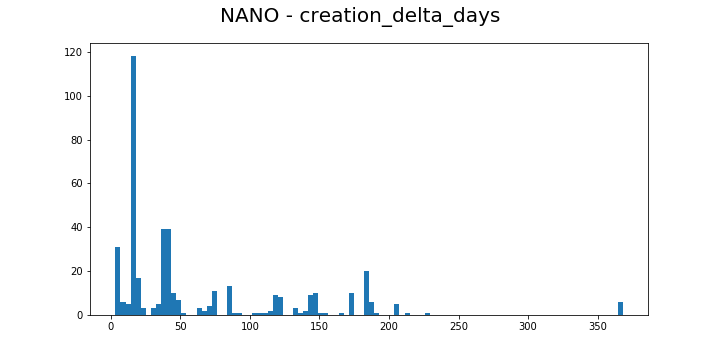
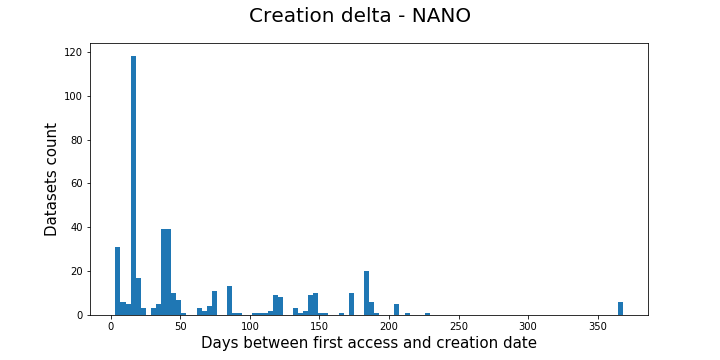
polishing figures on section DeltaT

Changed region(s): [[0.275, 0.9167, 0.7639, 0.9778], [0.3056, 0.0, 0.7028, 0.0611], [0.0611, 0.3361, 0.0917, 0.6722]]

diff --git a/models/doc/deltaT.md b/models/doc/deltaT.md
@@ -2,10 +2,116 @@
 
 **deltaT** is a range in time after the creation of a dataset in which we
 assume the dataset will stay in disk regardless whether it has been accessed or not
-and/or the deletion policy in place.It will be calculated as the typical time
+and/or the deletion policy in place. It will be calculated as the typical time
 between the creation(d_creation_date) or modification(d_last_modification) date
 of a dataset and its first access. Following, the procedure to define **deltaT**
 is described.
 
- 
 
+
+**dataset_dates_df**. This DataFrame contains three fields:
+'d_dataset_id', 'd_creation_date' and 'd_last_modification_date', it
+holds information about the creation and last modification dates of each
+of the datasets according to DBS. The code to produce this DataFrame is here:
+https://github.com/ddavila0/analytics_tools/blob/master/models/spark/get_dataset_dates.py
+    
+
+
+## The algorithm to calculate **deltaT**
+
+First, two DataFrames are used as input data:
+ * **dataset_dates_df**. It ccontains three fields:
+ 'd_dataset_id', 'd_creation_date' and 'd_last_modification_date', it
+ holds information about the creation and last modification dates of each
+ of the datasets according to DBS. The code to produce this DataFrame is here:
+ https://github.com/ddavila0/analytics_tools/blob/master/models/spark/get_dataset_dates.py
+
+|d_dataset_id  |d_creation_date  |d_last_modification_date
+|--------------|-----------------|------------------------
+|    13552523  |   1.524251e+09  |            1.524304e+09
+|    13552539  |   1.524248e+09  |            1.524534e+09
+|    13552774  |   1.524304e+09  |            1.524534e+09
+|    13553161  |   1.524394e+09  |            1.524521e+09
+|    13553167  |   1.524359e+09  |            1.524521e+09
+|**dataset_dates_df**
+ 
+* **days_df**. Each record on this DataFrame has a week timestamp, 'week_ts', a day timestamp
+ 'day_ts' and the set of dataset IDs that were accessed that day 'datasets_set'.
+ More information about this DataFrame can be found here:
+ [The origin of days_df](input_data.md#the-origin-of-days-dataframe)
+
+|week_ts	   | day_ts	        |datasets_set
+|--------------|----------------|-------------------------------------------------
+|1.527725e+09  | 1.527811e+09	|{13552539}
+|1.527725e+09  | 1.528070e+09	|{13552774, 13553161, 13552523, 13553167, 13552...}
+|1.527725e+09  | 1.528157e+09	|{13503969, 13504003, 13504008, 13503945, 13503...}
+|1.528330e+09  | 1.528589e+09	|{13553281, 13552774, 13553161, 13552523, 13553...}
+|1.528330e+09  | 1.528675e+09	|{13503969, 13504003, 13504008, 13504553, 13503..}
+|**days_df**
+
+Using **days_df** we create the DataFrame **first_access_df** which has the date
+of the first access observed in **days_df** for each dataset
+
+|d_dataset_id  |first_access_day
+|--------------|----------------
+|    13552523  |    1.528070e+09
+|    13552539  |    1.527811e+09
+|    13552774  |    1.528070e+09
+|    13553161  |    1.528070e+09
+|    13553167  |    1.528070e+09
+|**first_access_df**
+
+Then the **all_date** DataFrame is created by combining **dataset_dates_df** and
+**first_access_df** and two additional columns are inserted:
+ * creation_delta_days       = first_access_day - d_creation_date
+ * modification_delta_days   = first_access_day - d_last_modification_date
+
+| d_dataset_id  |d_creation_date  |d_last_modification_date |first_access_day  |creation_delta_days  |modification_delta_days
+|---------------|-----------------|-------------------------|------------------|---------------------|-----------------------
+|     13552523  |   1.524251e+09  |            1.524304e+09 |     1.528070e+09 |           44.206794 |               43.597037
+|     13552539  |   1.524248e+09  |            1.524534e+09 |     1.527811e+09 |           41.237488 |               37.925382
+|     13552774  |   1.524304e+09  |            1.524534e+09 |     1.528070e+09 |           43.593194 |               40.924780
+|     13553161  |   1.524394e+09  |            1.524521e+09 |     1.528070e+09 |           42.556620 |               41.078843
+|     13553167  |   1.524359e+09  |            1.524521e+09 |     1.528070e+09 |           42.960544 |               41.078611
+|**all_dates**
+  
+Finally we create two histograms based on the 'creation_delta_days' and
+'modification_delta_days' to see what is the typical time
+between the creation or modification of a dataset and its first access
+to define the value of **deltaT**. See the histograms in the next section. 
+
+## Delta histograms
+
+The following histogram depict the time between the first access of a dataset
+recorded in **days_df**(*) and either its 'creation date' or its 'last_modification_date'
+as shown in DBS.
+
+Similarly to the results in the first version of the algorithm, the datasets
+have been classified in 4 categories: NANO, MINI, ADO and REST so each of the
+following plots represents one of these categories.
+
+In the X - axis it is shown the difference in days between the first access
+and the creation/modification date. In the Y - axis is the count of datasets
+presenting such difference.
+
+<p><img src="figures/delta_creation_NANO.png" width="1000" height="500"></p>
+<br>
+<p><img src="figures/delta_creation_MINI.png" width="1000" height="500"></p>
+<br>
+<p><img src="figures/delta_creation_ADO.png" width="1000" height="500"></p>
+<br>
+<p><img src="figures/delta_creation_REST.png" width="1000" height="500"></p>
+<br>
+<p><img src="figures/delta_modification_NANO.png" width="1000" height="500"></p>
+<br>
+<p><img src="figures/delta_modification_MINI.png" width="1000" height="500"></p>
+<br>
+<p><img src="figures/delta_modification_ADO.png" width="1000" height="500"></p>
+<br>
+<p><img src="figures/delta_modification_REST.png" width="1000" height="500"></p>
+
+ 
+  
+  
+  
+  

diff --git a/models/doc/input_data.md b/models/doc/input_data.md
@@ -2,7 +2,7 @@ The algorithm uses 3 DataFrames: **weeks_df**, **days_df** and **dataset_sizes**
 
 1) In **days_df** each record will have a week timestamp,
 'week_ts', a day timestamp 'day_ts' and the set of dataset IDs that were accessed
-that day 'datasets_set'. See "The origin of days_df" below for more information on how is this data obtained.
+that day 'datasets_set'. See [The origin of days DataFrame](#the-origin-of-days-dataframe) below for more information on how is this data obtained.
 
 
 | week_ts    | day_ts     | datasets_set |
@@ -29,7 +29,7 @@ the datasets read by the group.
 
 
 3) **dataset_sizes** contains each of the datasets and its size in
-Bytes. See "The origin of dataset_sizes" below for more details on where this data is
+Bytes. See [The origin of dataset sizes DataFrame](#the-origin-of-dataset-sizes-dataframe) below for more details on where this data is
 coming from.
 
 
@@ -42,7 +42,7 @@ coming from.
 <br><br>
 
 
-## The origin of days_df
+## The origin of _days_ DataFrame
 
 These data is obtained from HDFS using the spark cluster at CERN. The spark code
 can be found here:
@@ -138,7 +138,7 @@ of jobs are put together in a set called 'datasets_set'. We keep the week timest
  )
 ```
 
-## The origin of dataset_sizes
+## The origin of _dataset sizes_ DataFrame
 
 These data is obtained from HDFS using the spark cluster at CERN. The spark code
 can be found here:
